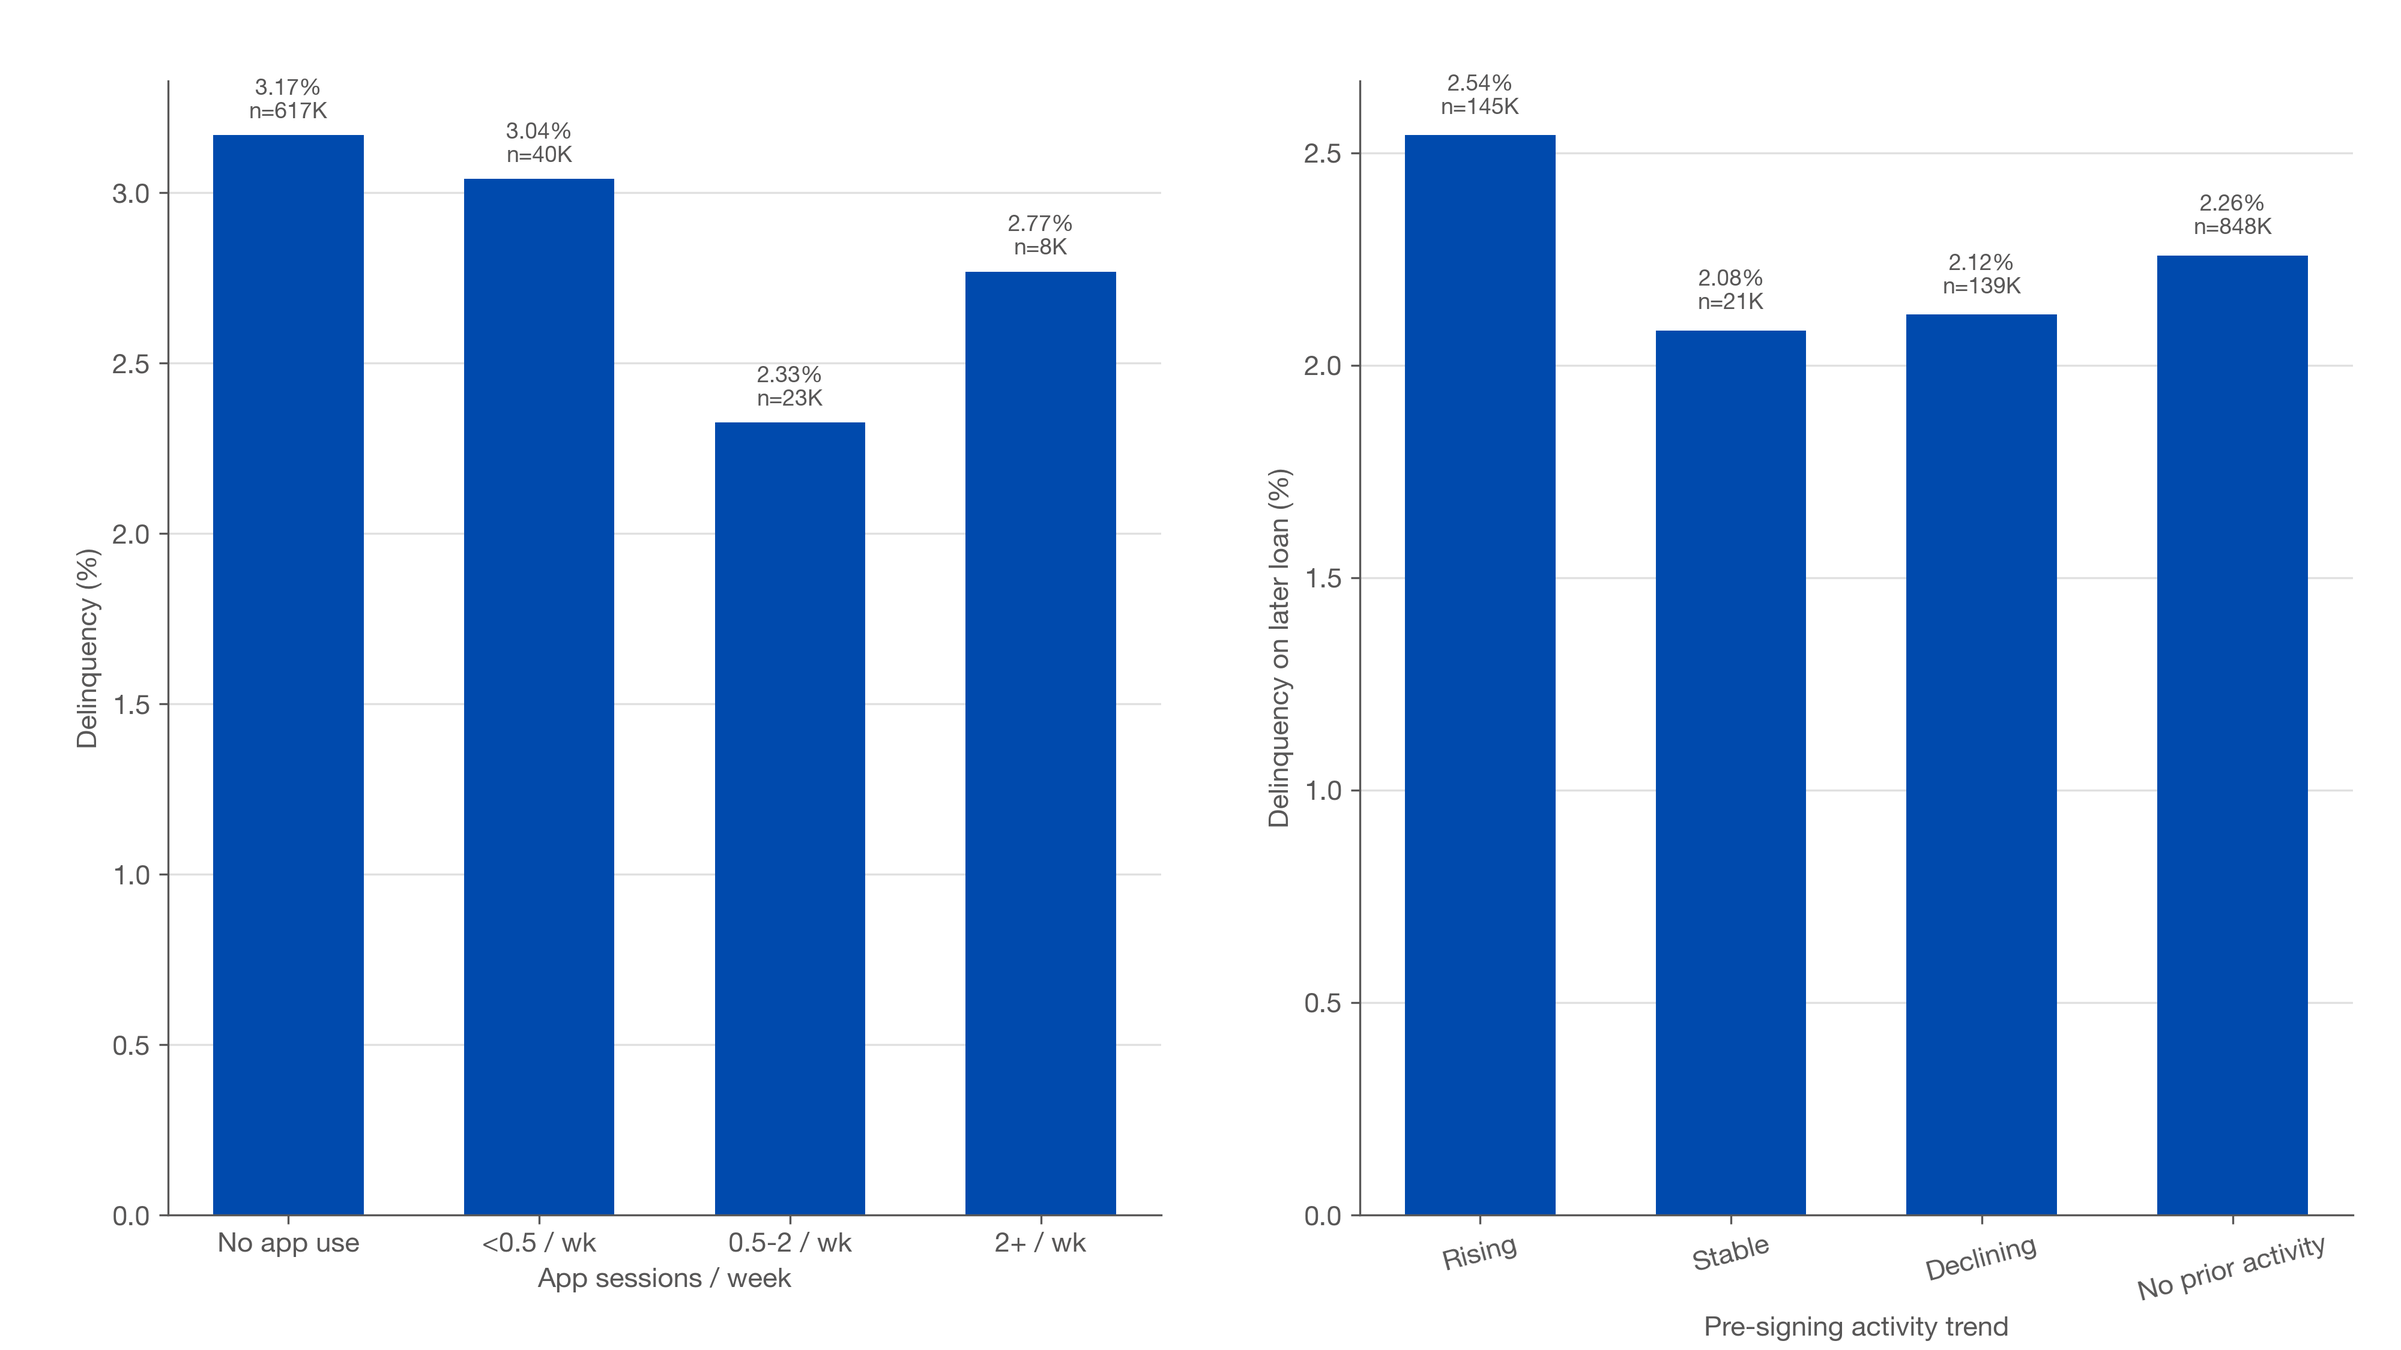
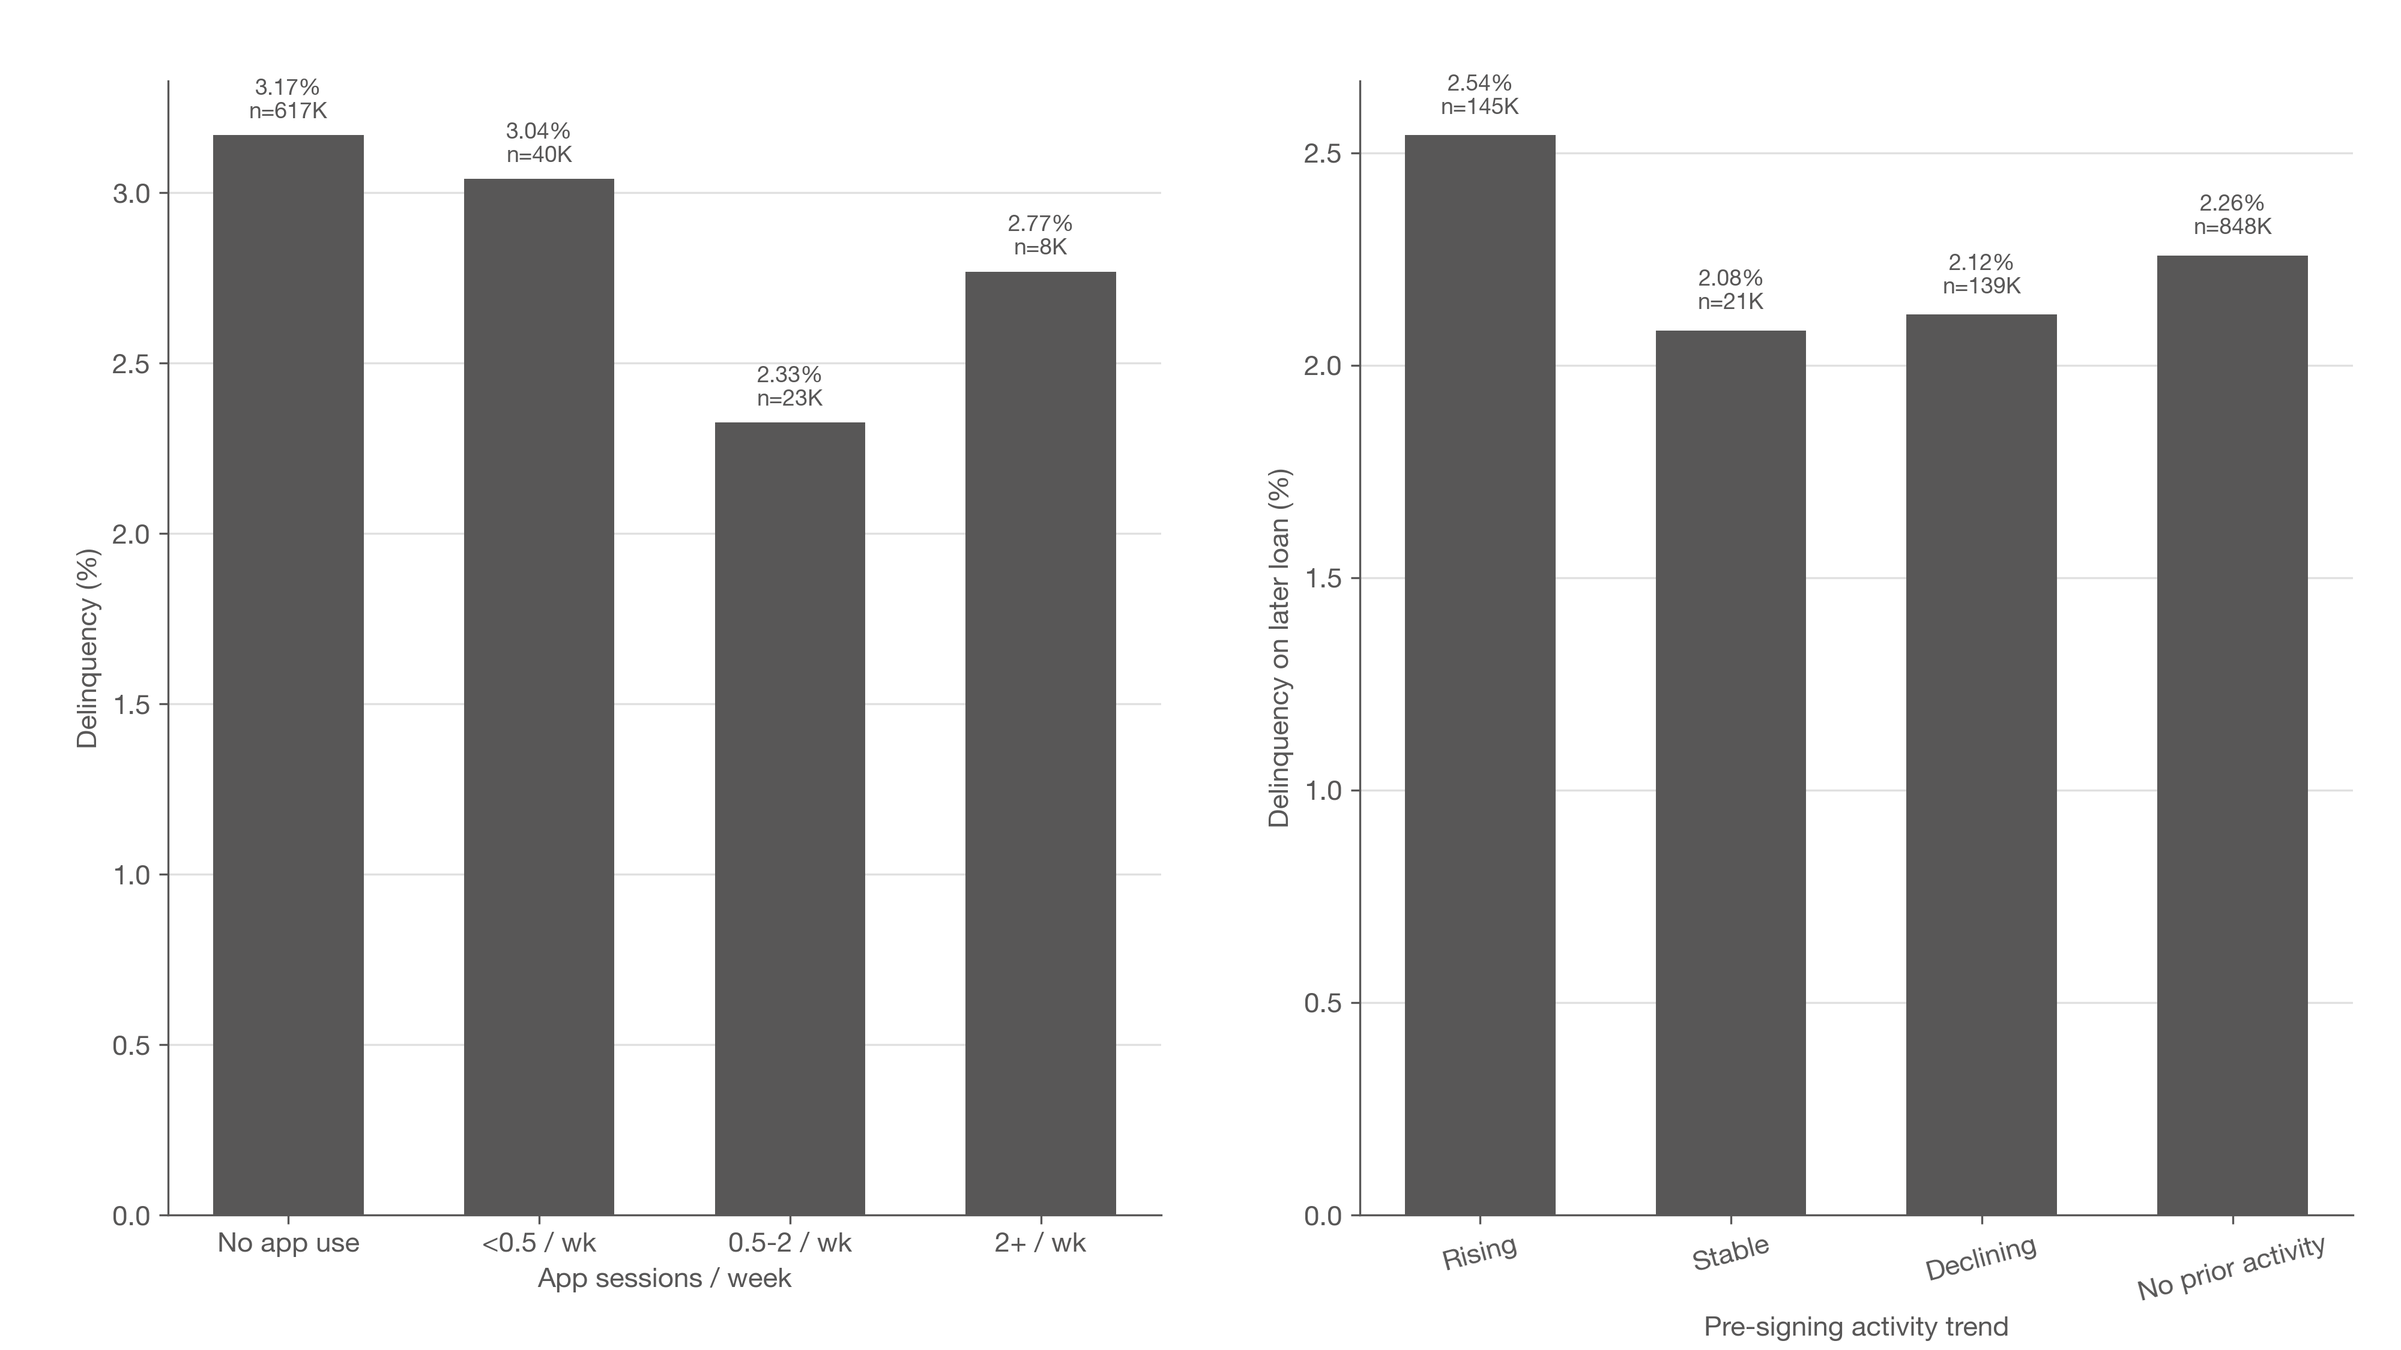
feat(task2): split lead-source chart, add engagement reducers, align lead cohorts
- Chart 3 split into 03a/03b/03c (deal rate, signed within 90d, active after 180d)
- Deal rate in charts 1 and 3a uses the same cohort (all leads since 2022-12), so
  numbers match; RTDM (relaunched Mar-2025, 41 leads) shown with n/a for follow-up measures
- Sources with fewer than 30 leads hidden
- Chart 4 bars set to neutral grey (panels are independent tests)
- Chart 5 tier panels ordered Low -> High
- New chart 6: pre-snapshot factors vs later call-answer rate (what reduces engagement)
- All Task 2 figures redrawn with the shared palette

diff --git a/Code/4. Task 2.py b/Code/4. Task 2.py
@@ -71,6 +71,7 @@ from Code.config.utils import (PAL, TIER_COLORS, assign_tier, auc, ensure_dirs, 
 ENG_WEIGHTS = {"E1_digital": 0.20, "E2_recency": 0.20, "E3_frequency": 0.25, "E4_responsiveness": 0.20,
                "E5_breadth": 0.15}
 CUSTOMER_LEAD_SOURCES = ("GMA", "LANDING PAGE")
+MIN_SOURCE_LEADS = 30    # rates on fewer leads are too noisy to chart (hidden, or n/a for follow-up measures)
 
 
 # =================================================================================================
@@ -330,7 +331,10 @@ def q3_lead_source(con, pop) -> pd.DataFrame:
     m = src.merge(pop[["SKP_CLIENT", "Engagement_Score", "days_since_last_activity"]], on="SKP_CLIENT")
     g = m.groupby("last_source").agg(mean_engagement_score=("Engagement_Score", "mean"),
                                      still_active_6m=("days_since_last_activity", lambda s: (s <= 182).mean()))
-    return df.merge(g, left_on="LEAD_SOURCE", right_index=True, how="left")
+    deal = con.execute(f"""
+      SELECT LEAD_SOURCE, count(*) n_leads_deal, avg(is_deal::INT) deal_rate_all
+      FROM {pq('leads_clean')} WHERE lead_time >= TIMESTAMP '2022-12-01' GROUP BY 1""").df()
+    return deal.merge(df, on="LEAD_SOURCE", how="left").merge(g, left_on="LEAD_SOURCE", right_index=True, how="left")
 
 
 def q4_early_warning(con, pop) -> dict:
@@ -362,6 +366,44 @@ def q4_early_warning(con, pop) -> dict:
             "auc_app_sessions": auc(a.bad, -a.app), "n_cross": len(a), "n_temporal": len(b)}
 
 
+def q5_engagement_reducers(con, pop) -> pd.DataFrame:
+    """Factors observed before the snapshot -> share of outbound calls the customer answers AFTER the snapshot.
+    Later pickup is not a score input, so the comparison is not circular. Associations only."""
+    snap = f"TIMESTAMP '{C.SNAPSHOT_DATE}'"
+    pre = con.execute(f"""
+      SELECT SKP_CLIENT,
+        count(*) FILTER (WHERE is_outbound) AS att, count(*) FILTER (WHERE is_outbound AND is_connected) AS conn,
+        count(*) FILTER (WHERE disposition_group = 'COLLECTION') AS coll,
+        count(*) FILTER (WHERE disposition_group = 'SALES_REFUSAL') AS refus,
+        count(*) FILTER (WHERE disposition_group = 'OPT_OUT') AS optout
+      FROM {pq('call_clean')} WHERE call_start >= TIMESTAMP '2025-01-01' AND call_start < {snap} GROUP BY 1""").df()
+    post = con.execute(f"""
+      SELECT SKP_CLIENT, count(*) AS p_att, count(*) FILTER (WHERE is_connected) AS p_conn
+      FROM {pq('call_clean')} WHERE is_outbound AND call_start >= {snap} GROUP BY 1""").df()
+    leads = con.execute(f"""
+      SELECT SKP_CLIENT, count(*) AS n_leads, sum((is_expired OR is_not_interest)::INT) AS dead
+      FROM {pq('leads_clean')} WHERE lead_time < {snap} AND lead_time >= {snap} - INTERVAL 730 DAY GROUP BY 1""").df()
+    d = (pop[["SKP_CLIENT", "app_sessions_wk", "days_since_last_activity"]].merge(post, on="SKP_CLIENT")
+         .merge(pre, on="SKP_CLIENT", how="left").merge(leads, on="SKP_CLIENT", how="left")
+         .fillna({"att": 0, "conn": 0, "coll": 0, "refus": 0, "optout": 0, "n_leads": 0, "dead": 0}))
+    d["answer_rate"] = d.p_conn / d.p_att
+    factors = {
+        "Ignored 5+ calls": (d.att >= 5) & (d.conn == 0),
+        "Collection calls": d.coll > 0,
+        "Opted out": d.optout > 0,
+        "No app": d.app_sessions_wk.fillna(0) == 0,
+        "Dormant 180d+": d.days_since_last_activity.isna() | (d.days_since_last_activity > 180),
+        "All leads lost": (d.n_leads > 0) & (d.dead == d.n_leads),
+        "Refused offer": d.refus > 0,
+    }
+    rows = [{"factor": name, "n_with": int(f.sum()), "answer_with": d.answer_rate[f].mean(),
+             "answer_without": d.answer_rate[~f].mean()} for name, f in factors.items()]
+    out = pd.DataFrame(rows)
+    out["diff_pp"] = (out.answer_with - out.answer_without) * 100
+    out["n_population"] = len(d)
+    return out
+
+
 # =================================================================================================
 # Charts
 # =================================================================================================
@@ -371,7 +413,7 @@ def q4_early_warning(con, pop) -> dict:
 # Compare conversion among customers with a sales outcome and lead deal rates by source. Call conversion is conditional on sales-call outcome; these comparisons are descriptive and do not establish an effect of app use. Confidence intervals show uncertainty in the call comparison.
 
 # %%
-def chart_active_passive(q1):
+def chart_active_passive(q1, q3: pd.DataFrame):
     fig, axes = plt.subplots(1, 2, figsize=(13.33, 7.5), gridspec_kw={"width_ratios": [1.1, 1]})
     bands = q1["by_app_band"]
     colors = [PAL["grey"], PAL["grey"], PAL["orange"], PAL["orange"]]
@@ -383,12 +425,14 @@ def chart_active_passive(q1):
     axes[0].set_xlabel("App sessions / week")
     axes[0].grid(axis="x", visible=False)
 
-    leads = q1["lead_source_deal"].sort_values("deal_rate")
+    leads = q3[q3.n_leads_deal >= MIN_SOURCE_LEADS].sort_values("deal_rate_all")
     # barh draws bottom-up, so the last three rows are the top three deal rates
     colors = [PAL["orange"] if i >= len(leads) - 3 else PAL["grey"] for i in range(len(leads))]
-    axes[1].barh(leads.LEAD_SOURCE, leads.deal_rate * 100, color=colors, height=0.6)
-    for i, (rate, count) in enumerate(zip(leads.deal_rate, leads.n)):
-        axes[1].text(rate * 100 + 0.6, i, f"{rate:.1%} · n={count / 1e3:,.0f}K", va="center", fontsize=9)
+    axes[1].barh(leads.LEAD_SOURCE, leads.deal_rate_all * 100, color=colors, height=0.6)
+    for i, (rate, count) in enumerate(zip(leads.deal_rate_all, leads.n_leads_deal)):
+        n_label = f"{count / 1e3:,.0f}K" if count >= 1000 else f"{count:,}"
+        axes[1].text(rate * 100 + 0.6, i, f"{rate:.1%} · n={n_label}", va="center", fontsize=9)
+    axes[1].set_xlim(0, leads.deal_rate_all.max() * 100 * 1.35)
     axes[1].set_xlabel("Lead deal rate (%)")
     axes[1].set_ylabel("Lead source")
     axes[1].grid(axis="y", visible=False)
@@ -434,23 +478,42 @@ def chart_call_dynamics(q2):
 # Show deal rate, signing of the offered product within 90 days, and later activity. Sources with small samples remain visible with their counts.
 
 # %%
+LEAD_SOURCE_FIGURES = {
+    "deal_rate_all": "03a_lead_source_deal_rate.png",
+    "signed_within_90d": "03b_lead_source_signed_within_90d.png",
+    "active_180d_after": "03c_lead_source_active_after_180d.png",
+}
+
+
 def chart_lead_source(q3: pd.DataFrame):
-    data = q3.sort_values("signed_within_90d").reset_index(drop=True)
-    fig, axes = plt.subplots(1, 3, figsize=(13.33, 7.5), sharey=True)
+    # one figure per measure; all three share the same source order so they can sit side by side on a slide
+    data = q3[q3.n_leads_deal >= MIN_SOURCE_LEADS].copy()
+    too_new = data.n_leads.fillna(0) < MIN_SOURCE_LEADS   # e.g. RTDM, relaunched Mar-2025: no lead has 90/180 days of follow-up yet
+    data.loc[too_new, ["signed_within_90d", "active_180d_after"]] = np.nan
+    data = data.sort_values("signed_within_90d", na_position="first").reset_index(drop=True)
     measures = [
-        ("deal_rate", "Deal rate (%)", PAL["navy"]),
-        ("signed_within_90d", "Offered product signed within 90 days (%)", PAL["orange"]),
-        ("active_180d_after", "Active after 180 days (%)", PAL["grey"]),
+        ("deal_rate_all", "Deal rate (%)",
+         [PAL["orange"] if source in ("SOB", "RTDM", "TLS") else PAL["grey"] for source in data.LEAD_SOURCE]),
+        # sources that actually sign the offered product
+        ("signed_within_90d", "Offered product signed within 90 days (%)",
+         [PAL["orange"] if source in ("SOB", "TLS") else PAL["grey"] for source in data.LEAD_SOURCE]),
+        # sources that sign less but keep customers active
+        ("active_180d_after", "Active after 180 days (%)",
+         [PAL["orange"] if source in ("GMA", "LANDING PAGE") else PAL["grey"] for source in data.LEAD_SOURCE]),
     ]
-    for ax, (column, label, color) in zip(axes, measures):
-        ax.barh(data.LEAD_SOURCE, data[column] * 100, color=color, height=0.6)
-        for i, value in enumerate(data[column]):
-            ax.text(value * 100 + 0.8, i, f"{value:.1%}", va="center", fontsize=9)
+    for column, label, colors in measures:
+        fig, ax = plt.subplots(figsize=(6.67, 7.5))
+        ax.barh(data.LEAD_SOURCE, data[column].fillna(0) * 100, color=colors, height=0.6)
+        for i, (value, n) in enumerate(zip(data[column], data.n_leads_deal)):
+            text = "n/a (too recent)" if pd.isna(value) else f"{value:.1%}"
+            if column == "deal_rate_all":
+                text += f" · n={n / 1e3:,.0f}K" if n >= 1000 else f" · n={n:,}"
+            ax.text((0 if pd.isna(value) else value * 100) + 0.8, i, text, va="center", fontsize=9)
         ax.set_xlabel(label)
-        ax.set_xlim(0, max(data[column].max() * 100 * 1.35, 5))
+        ax.set_ylabel("Lead source")
+        ax.set_xlim(0, max(data[column].max() * 100 * 1.25, 5))
         ax.grid(axis="y", visible=False)
-    axes[0].set_ylabel("Lead source")
-    save_fig(fig, TASK_FIGURES / "03_lead_source_engagement_comparison.png", None, left=0.12, wspace=0.25)
+        save_fig(fig, TASK_FIGURES / LEAD_SOURCE_FIGURES[column], None, left=0.25)
 
 
 # %% [markdown]
@@ -462,7 +525,7 @@ def chart_lead_source(q3: pd.DataFrame):
 def chart_early_warning(q4):
     fig, axes = plt.subplots(1, 2, figsize=(13.33, 7.5))
     cross = q4["cross_sectional"]
-    axes[0].bar(cross.band.astype(str), cross.bad_rate * 100, color=PAL["navy"], width=0.6)
+    axes[0].bar(cross.band.astype(str), cross.bad_rate * 100, color=PAL["grey"], width=0.6)
     for i, row in cross.iterrows():
         axes[0].text(i, row.bad_rate * 100 + 0.05, f"{row.bad_rate:.2%}\nn={row.n / 1e3:,.0f}K", ha="center", fontsize=9)
     axes[0].set_ylabel("Delinquency (%)")
@@ -470,8 +533,7 @@ def chart_early_warning(q4):
     axes[0].grid(axis="x", visible=False)
 
     temporal = q4["temporal"]
-    colors = [PAL["orange"] if trend == "Declining" else PAL["navy"] for trend in temporal.trend]
-    axes[1].bar(temporal.trend, temporal.bad_rate * 100, color=colors, width=0.6)
+    axes[1].bar(temporal.trend, temporal.bad_rate * 100, color=PAL["grey"], width=0.6)
     for i, row in temporal.iterrows():
         axes[1].text(i, row.bad_rate * 100 + 0.05, f"{row.bad_rate:.2%}\nn={row.n / 1e3:,.0f}K", ha="center", fontsize=9)
     axes[1].set_ylabel("Delinquency on later loan (%)")
@@ -479,6 +541,28 @@ def chart_early_warning(q4):
     axes[1].tick_params(axis="x", labelrotation=15)
     axes[1].grid(axis="x", visible=False)
     save_fig(fig, TASK_FIGURES / "04_engagement_dropoff_vs_delinquency.png", None)
+
+
+# %% [markdown]
+# ## What reduces engagement
+#
+# Compare later call pickup for customers with and without each pre-snapshot factor.
+
+# %%
+def chart_engagement_reducers(q5: pd.DataFrame):
+    data = q5.sort_values("diff_pp", ascending=False).reset_index(drop=True)   # most negative ends up on top
+    fig, ax = plt.subplots(figsize=(10.5, 7.5))
+    reducers = ("Ignored 5+ calls", "Opted out", "Collection calls")
+    colors = [PAL["orange"] if factor in reducers else PAL["grey"] for factor in data.factor]
+    ax.barh(data.factor, data.diff_pp, color=colors, height=0.6)
+    ax.axvline(0, color=PAL["navy"], lw=1)
+    for i, row in data.iterrows():
+        ax.text(row.diff_pp + (0.4 if row.diff_pp >= 0 else -0.4), i, f"{row.diff_pp:+.1f} pp", va="center",
+                ha="left" if row.diff_pp >= 0 else "right", fontsize=10)
+    ax.set_xlim(data.diff_pp.min() * 1.25, max(data.diff_pp.max(), 0) + 4)
+    ax.set_xlabel("Change in later call-answer rate (pp)")
+    ax.grid(axis="y", visible=False)
+    save_fig(fig, TASK_FIGURES / "06_engagement_reducers.png", None, left=0.18)
 
 
 # %% [markdown]
@@ -507,6 +591,7 @@ def chart_score(pop, val, fwd):
     axes[0].set_ylabel("Customers · log scale")
 
     def tier_bars(ax, table, column, ylabel):
+        table = table.reindex(["Low", "Medium", "High"])   # same left-to-right order as the histogram
         ax.bar(table.index, table[column] * 100, color=[TIER_COLORS[tier] for tier in table.index], width=0.6)
         top = table[column].max() * 100
         for i, (value, n) in enumerate(zip(table[column], table.n)):
@@ -635,7 +720,8 @@ if __name__ == "__main__":
 # %%
 if __name__ == "__main__":
     q1 = q1_active_vs_passive(con, population)
-    chart_active_passive(q1)
+    q3 = q3_lead_source(con, population)
+    chart_active_passive(q1, q3)
     display_saved_figure(TASK_FIGURES / "01_app_users_vs_telesales_conversion.png")
 
 # %% [markdown]
@@ -662,9 +748,9 @@ if __name__ == "__main__":
 
 # %%
 if __name__ == "__main__":
-    q3 = q3_lead_source(con, population)
     chart_lead_source(q3)
-    display_saved_figure(TASK_FIGURES / "03_lead_source_engagement_comparison.png")
+    for name in LEAD_SOURCE_FIGURES.values():
+        display_saved_figure(TASK_FIGURES / name)
 
 # %% [markdown]
 # **Interpretation.** A high deal rate alone does not establish durable engagement. Compare signing and later activity with sample size before recommending channel investment.
@@ -682,6 +768,20 @@ if __name__ == "__main__":
 
 # %% [markdown]
 # **Interpretation.** Treat activity changes as a monitoring prompt. Task 3 combines this engagement signal with financial-health evidence before suggesting a next action.
+
+# %% [markdown]
+# ## 5. Find what reduces engagement
+#
+# Factors are measured before the snapshot; the outcome is the share of later outbound calls the customer answers.
+
+# %%
+if __name__ == "__main__":
+    q5 = q5_engagement_reducers(con, population)
+    chart_engagement_reducers(q5)
+    display_saved_figure(TASK_FIGURES / "06_engagement_reducers.png")
+
+# %% [markdown]
+# **Interpretation.** Non-response persists: customers who ignored repeated dials keep ignoring later calls. Digital inactivity and lead expiry do not lower phone reachability.
 
 # %% [markdown]
 # ## Save evidence and the stage report
@@ -711,6 +811,7 @@ if __name__ == "__main__":
         "q3": q3.to_dict("records"),
         "q4": {key: value.astype({column: str for column in value.columns if value[column].dtype.name == "category"}).to_dict("records")
                if isinstance(value, pd.DataFrame) else value for key, value in q4.items()},
+        "q5": q5.to_dict("records"),
     }
     save_json(metrics, DATA_CLEAN / "metrics_phase3.json")
     TASK_REPORT.parent.mkdir(parents=True, exist_ok=True)
